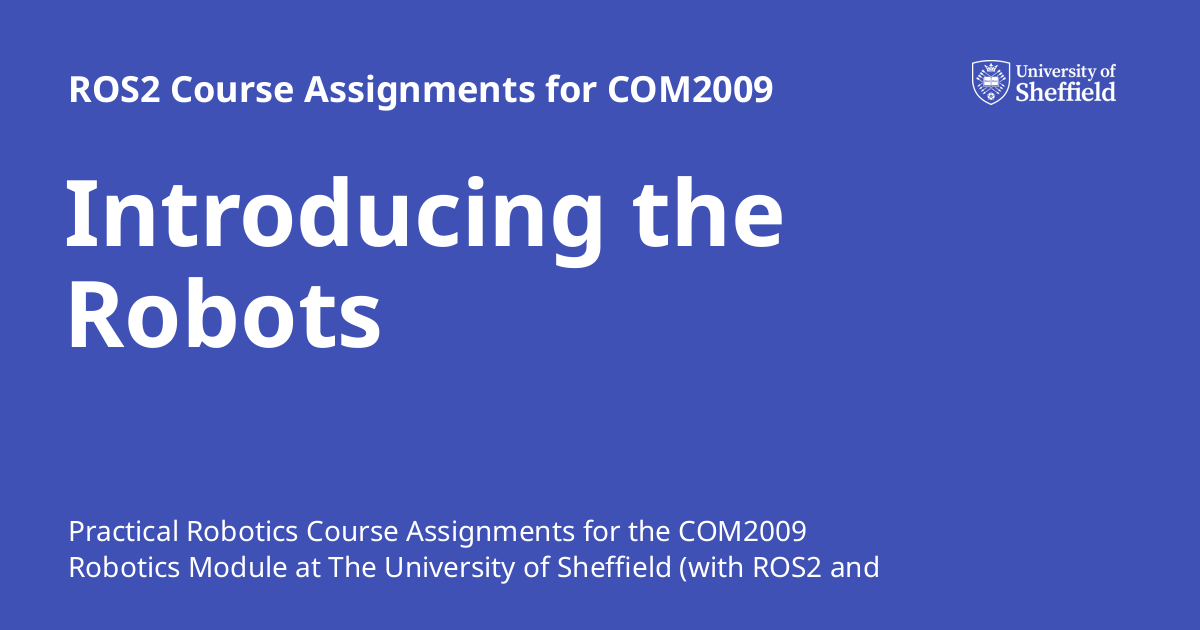
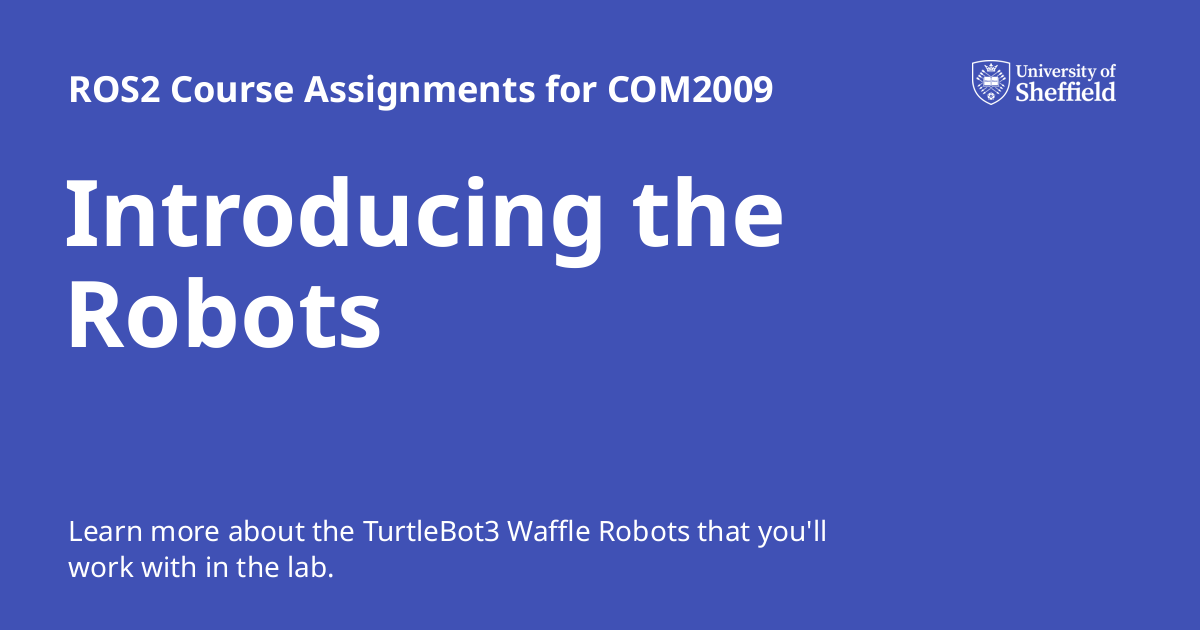
Deployed ae9a444 with MkDocs version: 1.6.1

Changed region(s): [[0.0617, 0.8143, 0.74, 0.9349]]

diff --git a/about/robots/index.html b/about/robots/index.html
@@ -6,7 +6,7 @@
       <meta charset="utf-8">
       <meta name="viewport" content="width=device-width,initial-scale=1">
       
-        <meta name="description" content="Practical Robotics Course Assignments for the COM2009 Robotics Module at The University of Sheffield (with ROS2 and the TurtleBot3 Waffle).">
+        <meta name="description" content="Learn more about the TurtleBot3 Waffle Robots that you'll work with in the lab.">
       
       
       
@@ -65,7 +65,7 @@
       
         <meta  property="og:title"  content="Introducing the Robots - ROS2 Course Assignments for COM2009" >
       
-        <meta  property="og:description"  content="Practical Robotics Course Assignments for the COM2009 Robotics Module at The University of Sheffield (with ROS2 and the TurtleBot3 Waffle)." >
+        <meta  property="og:description"  content="Learn more about the TurtleBot3 Waffle Robots that you'll work with in the lab." >
       
         <meta  property="og:image"  content="https://tom-howard.github.io/com2009/assets/images/social/about/robots.png" >
       
@@ -81,7 +81,7 @@
       
         <meta  name="twitter:title"  content="Introducing the Robots - ROS2 Course Assignments for COM2009" >
       
-        <meta  name="twitter:description"  content="Practical Robotics Course Assignments for the COM2009 Robotics Module at The University of Sheffield (with ROS2 and the TurtleBot3 Waffle)." >
+        <meta  name="twitter:description"  content="Learn more about the TurtleBot3 Waffle Robots that you'll work with in the lab." >
       
         <meta  name="twitter:image"  content="https://tom-howard.github.io/com2009/assets/images/social/about/robots.png" >
       
@@ -2133,7 +2133,7 @@
     <span class="md-icon" title="Last update">
       <svg xmlns="http://www.w3.org/2000/svg" viewBox="0 0 24 24"><path d="M21 13.1c-.1 0-.3.1-.4.2l-1 1 2.1 2.1 1-1c.2-.2.2-.6 0-.8l-1.3-1.3c-.1-.1-.2-.2-.4-.2m-1.9 1.8-6.1 6V23h2.1l6.1-6.1zM12.5 7v5.2l4 2.4-1 1L11 13V7zM11 21.9c-5.1-.5-9-4.8-9-9.9C2 6.5 6.5 2 12 2c5.3 0 9.6 4.1 10 9.3-.3-.1-.6-.2-1-.2s-.7.1-1 .2C19.6 7.2 16.2 4 12 4c-4.4 0-8 3.6-8 8 0 4.1 3.1 7.5 7.1 7.9l-.1.2z"/></svg>
     </span>
-    <span class="git-revision-date-localized-plugin git-revision-date-localized-plugin-timeago"><span class="timeago" datetime="2025-02-03T16:55:44+00:00" locale="en"></span></span><span class="git-revision-date-localized-plugin git-revision-date-localized-plugin-iso_date">2025-02-03</span>
+    <span class="git-revision-date-localized-plugin git-revision-date-localized-plugin-timeago"><span class="timeago" datetime="2025-02-04T22:21:02+00:00" locale="en"></span></span><span class="git-revision-date-localized-plugin git-revision-date-localized-plugin-iso_date">2025-02-04</span>
   </span>
 
     
